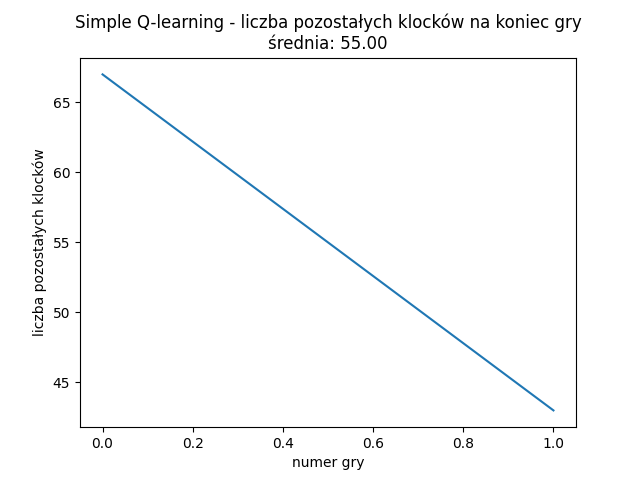
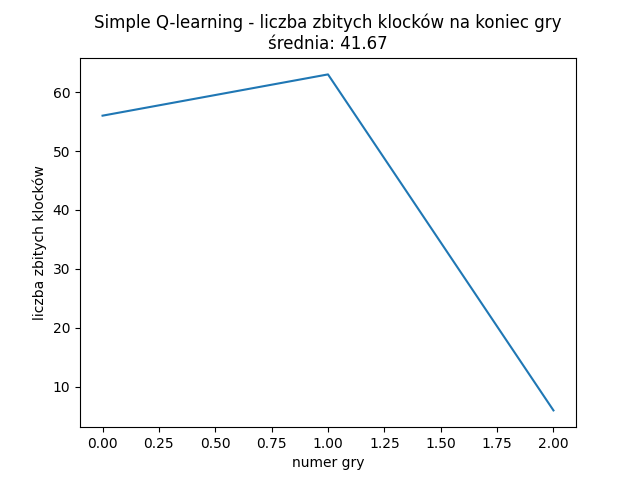
Wykresy, ile klocków zbitych; zmiana MAX_NUM_GAMES na 30

diff --git a/simple_main.py b/simple_main.py
@@ -16,6 +16,10 @@ import time
 width = SCREEN_WIDTH_BIG
 height = SCREEN_HEIGHT
 
+max_bricks = MAX_BRICKS_BIG
+if width == SCREEN_WIDTH_SMALL:
+    max_bricks = MAX_BRICKS_SMALL
+
 screen = tr.Screen()
 screen.setup(width=width, height=height)
 screen.bgcolor('black')
@@ -195,7 +199,7 @@ while training_agent:
 
         # UPDATE SCREEN WITH ALL THE MOTION THAT HAS HAPPENED
         screen.update()
-        time.sleep(0.01)
+        #time.sleep(0.01)
 
         # DETECTING COLLISION WITH WALLS
         check_collision_with_walls()
@@ -233,17 +237,18 @@ while training_agent:
     screen.update()
     agent.save_q_values()
 
-    agent.bricks_left.append(len(bricks.bricks))
+    agent.bricks_hit.append(max_bricks - len(bricks.bricks))
 
     agent.increase_num_games()
+    print(agent.num_games)
     # check if the maximum number of games has been reached
     if agent.num_games >= agent.max_num_games:
         break
 
-average = "{:.2f}".format(np.average(agent.bricks_left))
+average = "{:.2f}".format(np.average(agent.bricks_hit))
 
-plt.plot(agent.bricks_left)
-plt.title("Simple Q-learning - liczba pozostałych klocków na koniec gry\nśrednia: " + str(average))
+plt.plot(agent.bricks_hit)
+plt.title("Simple Q-learning - liczba zbitych klocków na koniec gry\nśrednia: " + str(average))
 plt.xlabel("numer gry")
-plt.ylabel("liczba pozostałych klocków")
+plt.ylabel("liczba zbitych klocków")
 plt.savefig("charts/simple_agent.png")

diff --git a/main.py b/main.py
@@ -16,6 +16,10 @@ import time
 width = SCREEN_WIDTH_SMALL
 height = SCREEN_HEIGHT
 
+max_bricks = MAX_BRICKS_BIG
+if width == SCREEN_WIDTH_SMALL:
+    max_bricks = MAX_BRICKS_SMALL
+
 screen = tr.Screen()
 screen.setup(width=width, height=height)
 screen.bgcolor('black')
@@ -233,17 +237,17 @@ while training_agent:
     screen.update()
     agent.save_q_values()
 
-    agent.bricks_left.append(len(bricks.bricks))
+    agent.bricks_hit.append(max_bricks - len(bricks.bricks))
 
     agent.increase_num_games()
     # check if the maximum number of games has been reached
     if agent.num_games >= agent.max_num_games:
         break
 
-average = "{:.2f}".format(np.average(agent.bricks_left))
+average = "{:.2f}".format(np.average(agent.bricks_hit))
 
-plt.plot(agent.bricks_left)
-plt.title("Complex Q-learning - liczba pozostałych klocków na koniec gry\nśrednia: " + str(average))
+plt.plot(agent.bricks_hit)
+plt.title("Complex Q-learning - liczba zbitych klocków na koniec gry\nśrednia: " + str(average))
 plt.xlabel("numer gry")
-plt.ylabel("liczba pozostałych klocków")
+plt.ylabel("liczba zbitych klocków")
 plt.savefig("charts/complex_agent.png")

diff --git a/monte_carlo_main.py b/monte_carlo_main.py
@@ -16,6 +16,10 @@ import time
 width = SCREEN_WIDTH_BIG
 height = SCREEN_HEIGHT
 
+max_bricks = MAX_BRICKS_BIG
+if width == SCREEN_WIDTH_SMALL:
+    max_bricks = MAX_BRICKS_SMALL
+
 screen = tr.Screen()
 screen.setup(width=width, height=height)
 screen.bgcolor('black')
@@ -240,17 +244,17 @@ while training_agent:
     screen.update()
     agent.save_q_values()
 
-    agent.bricks_left.append(len(bricks.bricks))
+    agent.bricks_hit.append(max_bricks - len(bricks.bricks))
 
     agent.increase_num_games()
     # check if the maximum number of games has been reached
     if agent.num_games >= agent.max_num_games:
         break
 
-average = "{:.2f}".format(np.average(agent.bricks_left))
+average = "{:.2f}".format(np.average(agent.bricks_hit))
 
-plt.plot(agent.bricks_left)
-plt.title("Monte Carlo - liczba pozostałych klocków na koniec gry\nśrednia: " + str(average))
+plt.plot(agent.bricks_hit)
+plt.title("Monte Carlo - liczba zbitych klocków na koniec gry\nśrednia: " + str(average))
 plt.xlabel("numer gry")
-plt.ylabel("liczba pozostałych klocków")
+plt.ylabel("liczba zbitych klocków")
 plt.savefig("charts/monte_carlo_agent.png")

diff --git a/sarsa_main.py b/sarsa_main.py
@@ -16,6 +16,10 @@ import time
 width = SCREEN_WIDTH_BIG
 height = SCREEN_HEIGHT
 
+max_bricks = MAX_BRICKS_BIG
+if width == SCREEN_WIDTH_SMALL:
+    max_bricks = MAX_BRICKS_SMALL
+
 screen = tr.Screen()
 screen.setup(width=width, height=height)
 screen.bgcolor('black')
@@ -241,17 +245,17 @@ while training_agent:
     screen.update()
     agent.save_q_values()
 
-    agent.bricks_left.append(len(bricks.bricks))
+    agent.bricks_hit.append(max_bricks - len(bricks.bricks))
 
     agent.increase_num_games()
     # check if the maximum number of games has been reached
     if agent.num_games >= agent.max_num_games:
         break
 
-average = "{:.2f}".format(np.average(agent.bricks_left))
+average = "{:.2f}".format(np.average(agent.bricks_hit))
 
-plt.plot(agent.bricks_left)
-plt.title("SARSA - liczba pozostałych klocków na koniec gry\nśrednia: " + str(average))
+plt.plot(agent.bricks_hit)
+plt.title("SARSA - liczba zbitych klocków na koniec gry\nśrednia: " + str(average))
 plt.xlabel("numer gry")
-plt.ylabel("liczba pozostałych klocków")
+plt.ylabel("liczba zbitych klocków")
 plt.savefig("charts/sarsa_agent.png")

diff --git a/agents/agent.py b/agents/agent.py
@@ -8,7 +8,7 @@ class Agent(abc.ABC):
         self.max_num_games = MAX_NUM_GAMES  # maksymalna liczba gier do rozegrania
         self.reward_history = [0] * self.max_num_games
         self.success_history = []
-        self.bricks_left = []
+        self.bricks_hit = []
 
     @abc.abstractmethod
     def get_action(self):

diff --git a/globals/constants.py b/globals/constants.py
@@ -2,7 +2,7 @@ SCREEN_WIDTH_BIG = 1200
 SCREEN_WIDTH_SMALL = 570
 SCREEN_HEIGHT = 600
 
-MAX_NUM_GAMES = 300
+MAX_NUM_GAMES = 30
 
 PADDLE_WIDTH = 220
 HALF_PADDLE = PADDLE_WIDTH/2
@@ -10,3 +10,6 @@ PADDLE_Y_POS = -280
 PADDLE_HEIGHT = 30
 
 BALL_DIAMETER = 20
+
+MAX_BRICKS_BIG = 76
+MAX_BRICKS_SMALL = 36
